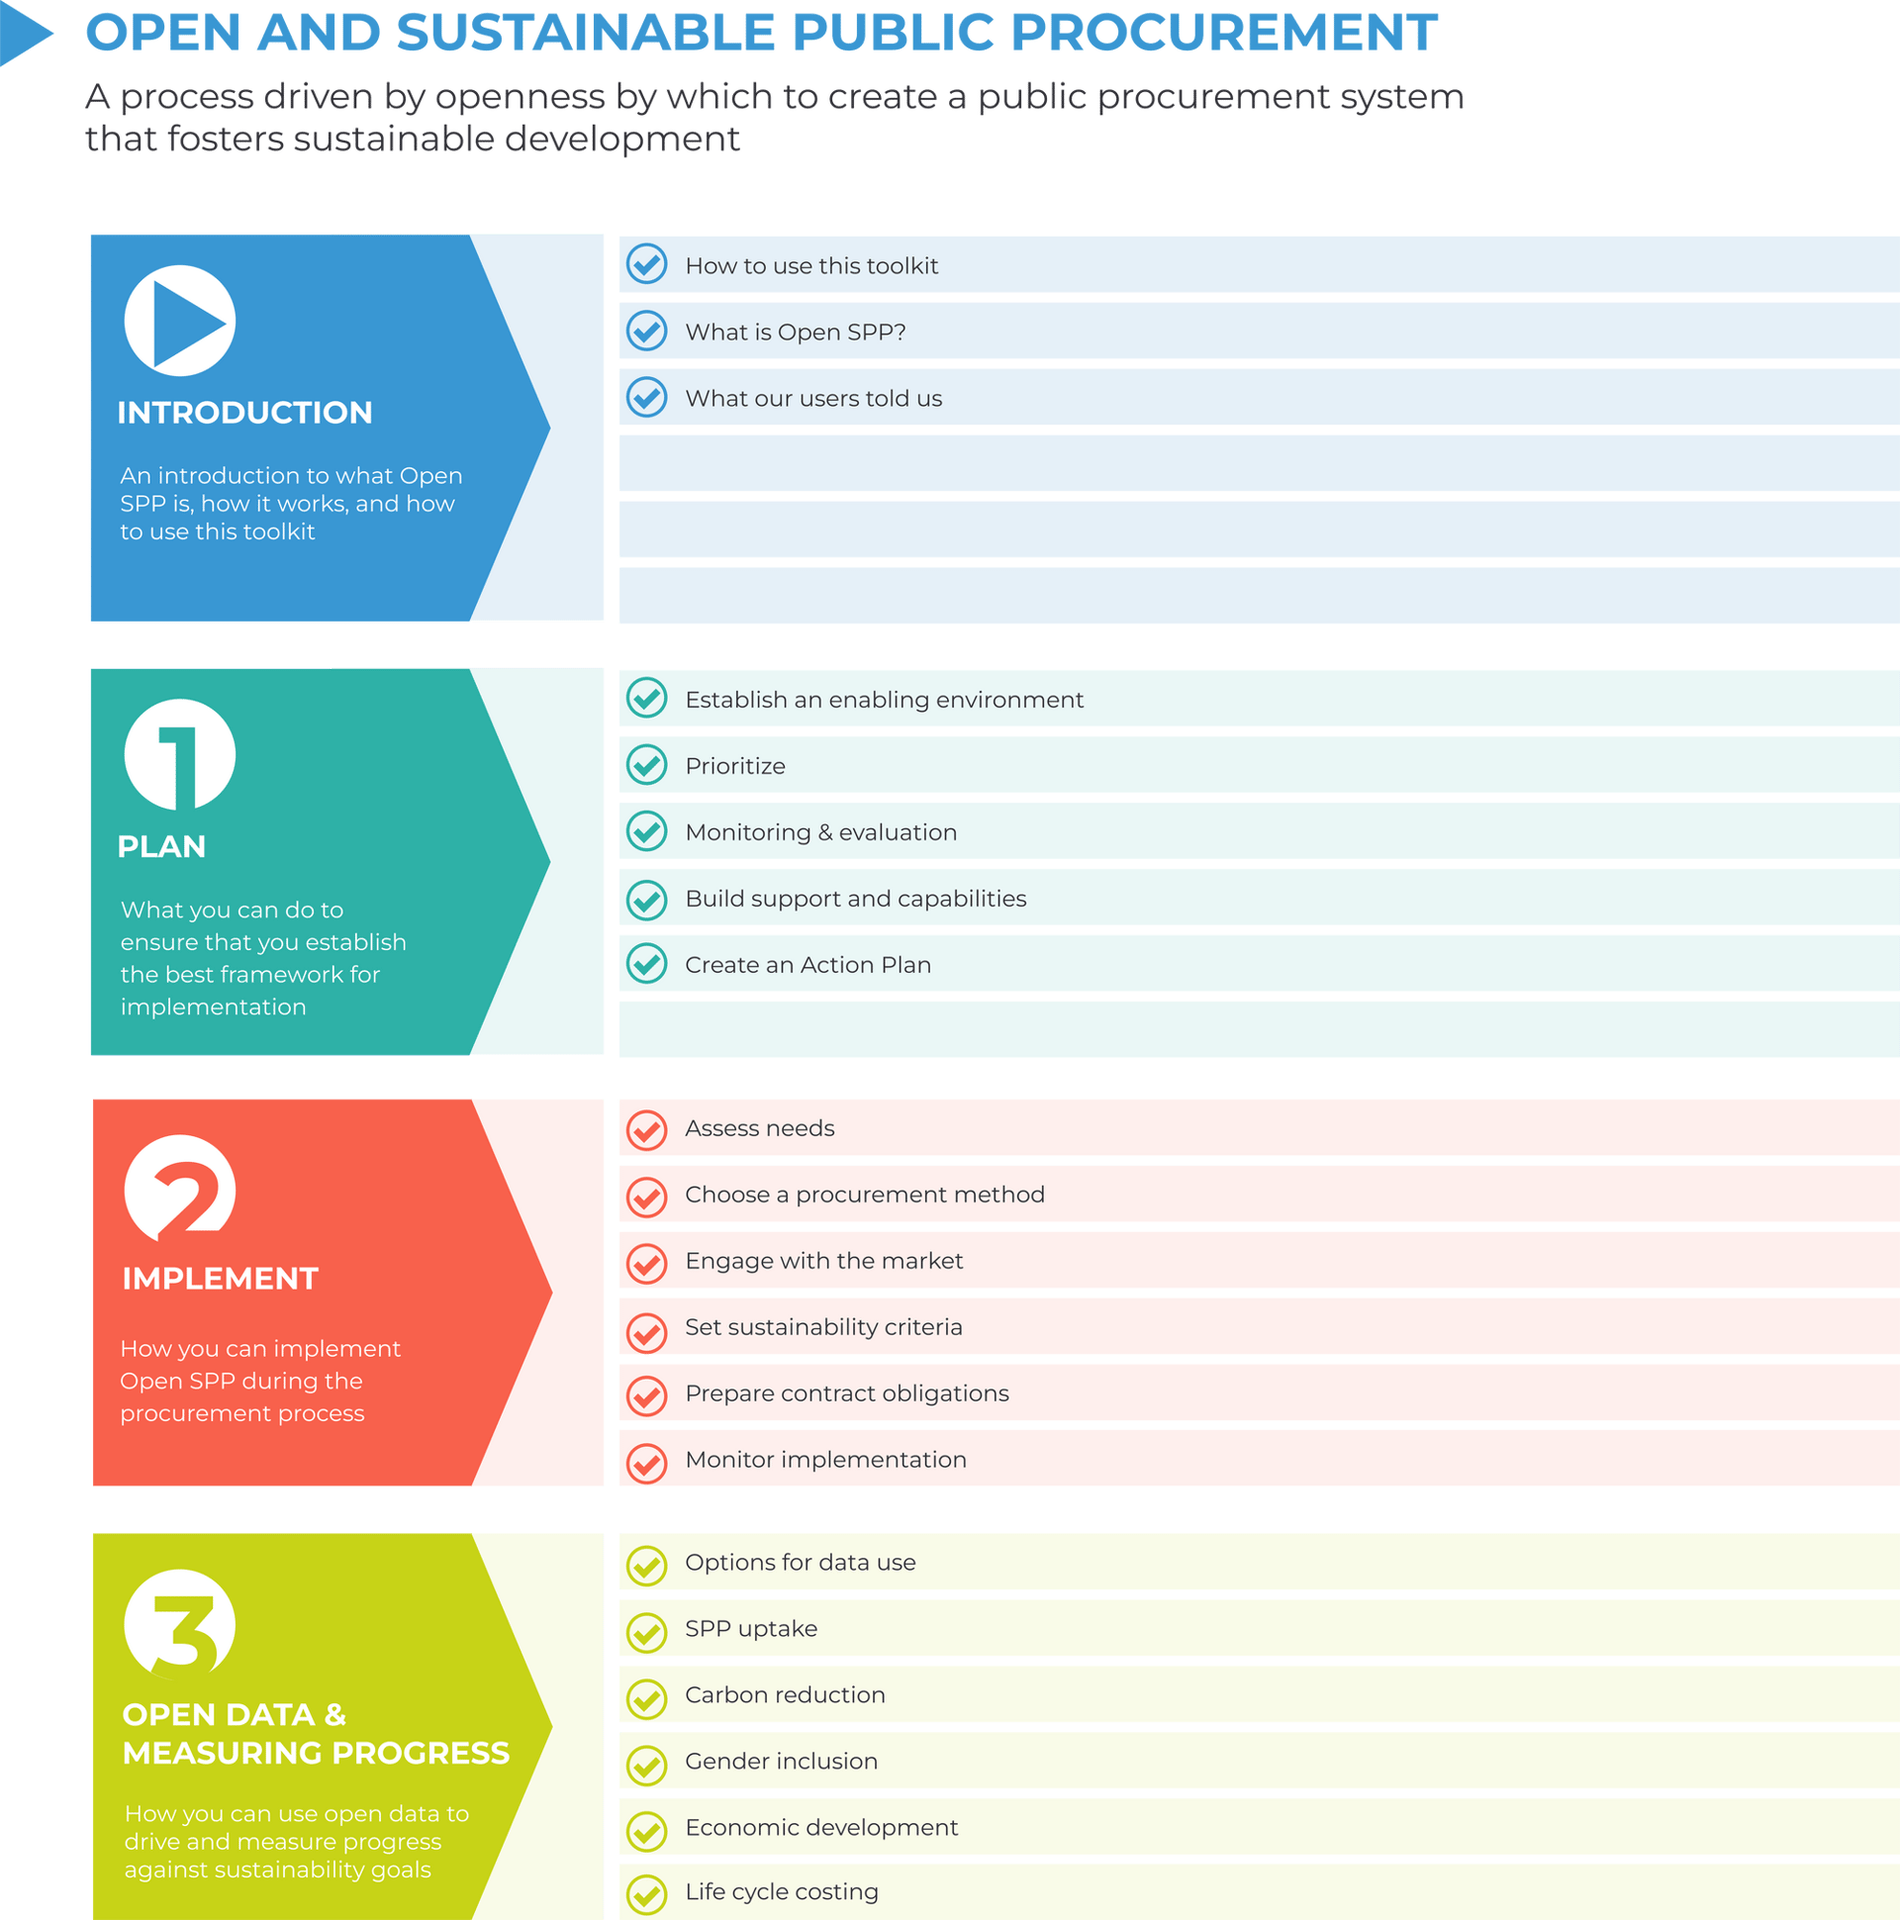
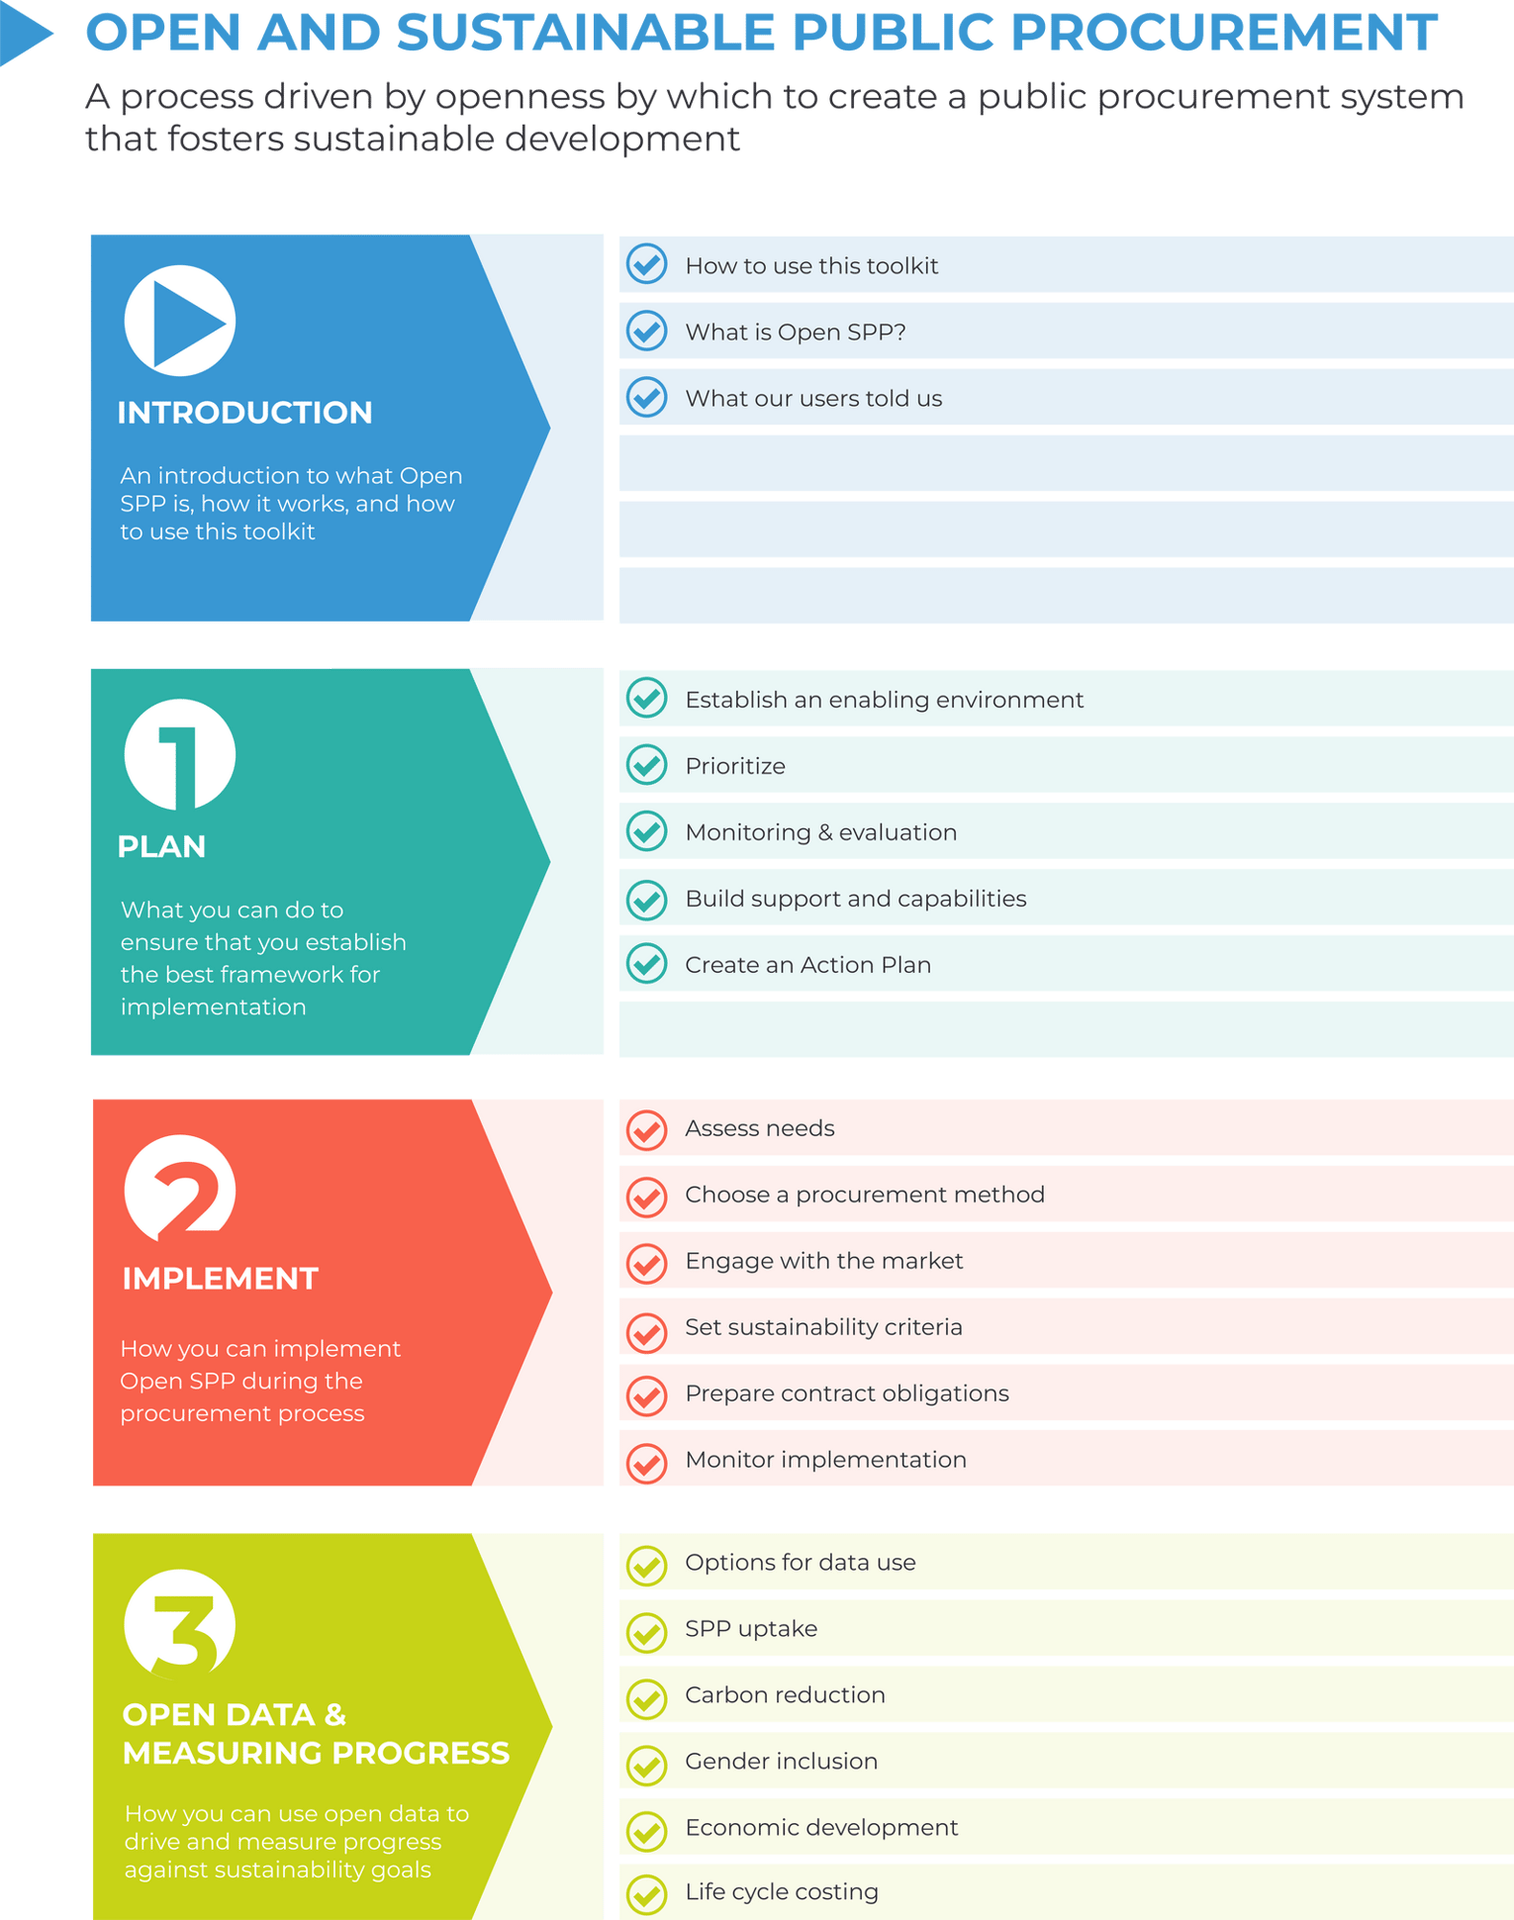
Crop the empty right of the structure diagrams, so that their text is larger
Claude-Session: https://claude.ai/code/session_01TvAC1RZi3TCCKvgVET6nxK

diff --git a/fr/comment-utiliser.md b/fr/comment-utiliser.md
@@ -10,7 +10,7 @@ sidebar: true
 
 La structure de ce guide pratique suit le déroulement d’un processus de passation de marchés publics durables, des premières étapes visant à faciliter et suivre leur mise en place globale à l’échelle institutionnelle aux aspects qui doivent être pris en compte au moment de mettre en place des marchés publics durables concernant certaines catégories de marchés. Dans la dernière section, nous indiquons comment utiliser des pratiques de la commande publique ouverte et les données ouvertes pour favoriser et évaluer la réalisation d’objectifs de durabilité, comme la réduction des émissions de carbone ou l’égalité entre les genres.
 
-{% image /assets/images/Structure_Diagram_fr.png 5504 5563 align-start wide %}
+{% image /assets/images/Structure_Diagram_fr.png 1530 1940 align-start wide %}
 
 # À qui est destiné ce guide pratique ?
 

diff --git a/es/cmo-usar-la-herramienta.md b/es/cmo-usar-la-herramienta.md
@@ -10,7 +10,7 @@ sidebar: true
 
 Este conjunto de herramientas ha sido estructurado siguiendo el proceso de una travesía de la contratación pública abierta y sostenible, desde los primeros pasos que se deben tomar a nivel institucional para facilitar y monitorear la implementación general, hasta los aspectos que se deben considerar al implementar en contratación pública específica. En la última sección, brindamos orientación sobre cómo utilizar prácticas de contratación abierta y datos abiertos para impulsar y medir objetivos de sostenibilidad, como la reducción de carbono o la igualdad de género.
 
-{% image /assets/images/Structure_Diagram_esp.png 5504 5563 align-start wide %}
+{% image /assets/images/Structure_Diagram_esp.png 1530 1940 align-start wide %}
 
 # ¿Para quién es este conjunto de herramientas?
 

diff --git a/en/how-to-use-this-toolkit.md b/en/how-to-use-this-toolkit.md
@@ -10,7 +10,7 @@ sidebar: true
 
 This toolkit has been structured following the process of an SPP journey, from the first steps that should be taken at an institutional level to facilitate and monitor overall implementation, to aspects that should be considered when implementing SPP in specific public contracts. In the last section, we provide guidance on how to use open contracting practices and open data to drive and measure sustainability goals, such as carbon reduction or gender equality.
 
-{% image /assets/images/Structure_Diagram-1.png 5504 5563 align-start wide %}
+{% image /assets/images/Structure_Diagram-1.png 1530 1940 align-start wide %}
 
 # Who is this toolkit for?
 

diff --git a/en/index.md b/en/index.md
@@ -27,7 +27,7 @@ This Open and Sustainable Public Procurement toolkit is also available in French
 - [Acesse este kit de ferramentas em português](http://www.open-contracting.org/openspp-por){: lang="pt"} (PDF)
 {% endcallout %}
 
-{% image /assets/images/Structure_Diagram-1.png 5504 5563 align-start wide %}
+{% image /assets/images/Structure_Diagram-1.png 1530 1940 align-start wide %}
 
 {% database Your Open SPP journey %}
 {% gallery medium %}

diff --git a/es/index.md b/es/index.md
@@ -26,7 +26,7 @@ hide_title: true
 - [Accéder au guide en français](https://achatdurable.open-contracting.org/){: lang="fr"}
 {% endcallout %}
 
-{% image /assets/images/Structure_Diagram_esp.png 5504 5563 align-start wide %}
+{% image /assets/images/Structure_Diagram_esp.png 1530 1940 align-start wide %}
 
 {% database El proceso de implementación Open SPP %}
 {% gallery medium %}

diff --git a/fr/index.md b/fr/index.md
@@ -26,7 +26,7 @@ hide_title: true
 - [Accede a la herramienta en español](https://sostenibilidad.open-contracting.org/){: lang="es"}
 {% endcallout %}
 
-{% image /assets/images/Structure_Diagram_fr.png 5504 5563 align-start wide %}
+{% image /assets/images/Structure_Diagram_fr.png 1530 1940 align-start wide %}
 
 {% database Votre trajet de la mise en place %}
 {% gallery medium %}
